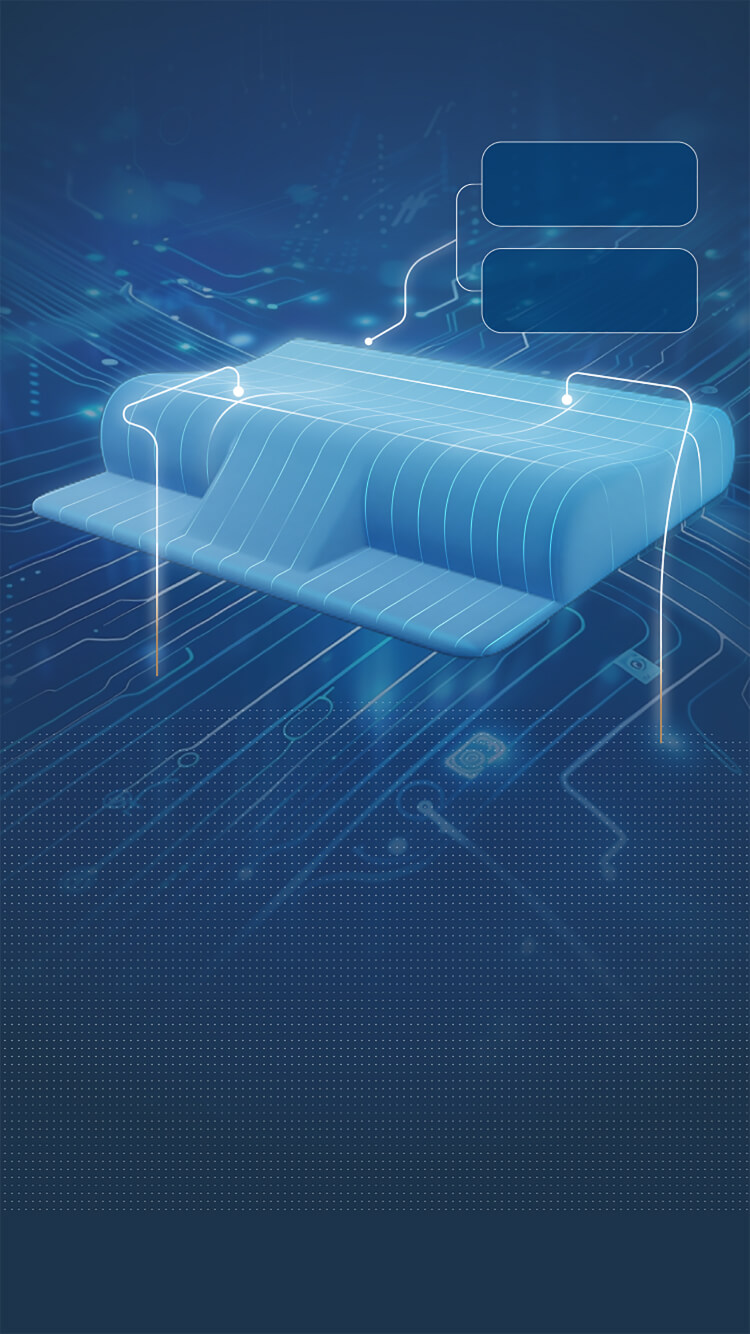
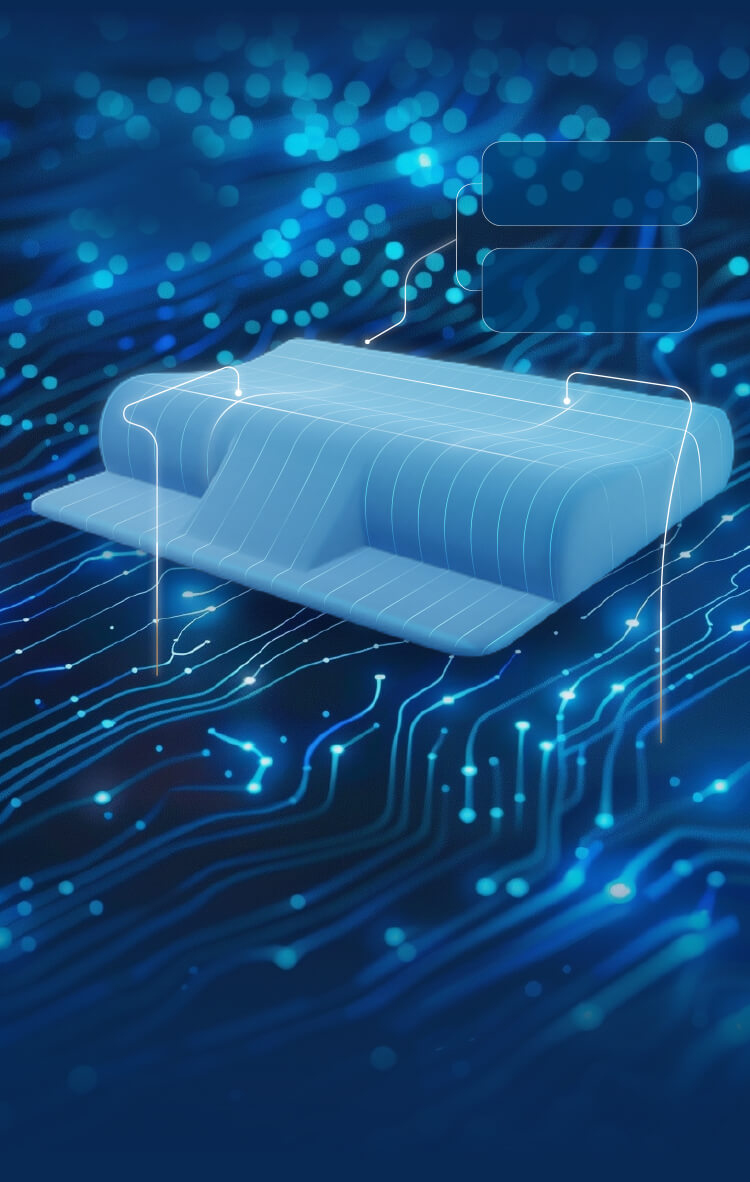
更新首页素材

diff --git a/pages/status/status.vue b/pages/status/status.vue
@@ -1,31 +1,31 @@
 <template>
 	<view class="main" v-if="hasLogin">
-		<view class="bg">
+		<view class="bg" :style="menuInfo">
 			<image mode="widthFix" class="backimg" src="../../static/index/SY_00A_001.jpg"></image>
-		</view>
-		<view class="logoleft">
-			<image mode="widthFix" src="../../static/index/SY_00A_LOGO01.png"></image>
-		</view>
-		<view class="rightBatteryInfo" :style="menuInfo">
-			<image class="icon" mode="widthFix" src="../../static/index/SY_00A_IconDLa.png"></image>
-			<label class="desc" for="">{{getPillowPower}}%</label>
-		</view>
-		<view class="rightInfo" :style="menuInfo">
-			<image class="icon" mode="widthFix" src="../../static/index/SY_00A_IconCW.png"></image>
-			<label class="desc" for="">{{login?'已连接':'未连接'}}</label>
-		</view>
-		<view class="headInfo" :style="menuInfo">
-			<view>颈枕高度</view>
-			<view>{{pillowSideHeight}}mm</view>
-		</view>
-		<view class="neckInfo" :style="menuInfo">
-			<view>头枕高度</view>
-			<view>{{pillowHeight}}mm</view>
-		</view>
-		<view class="">
-			<view v-for="(item,index) in deviceIdList" :key="index">
-				{{item.name}}
-				<button @click="connectSleepHandler(item)">{{item.deviceId == connectDeviceId ?'已连接':'连接'}}</button>
+			<view class="logoleft">
+				<image mode="widthFix" src="../../static/index/SY_00A_LOGO01.png"></image>
+			</view>
+			<view class="rightBatteryInfo" :style="menuInfo">
+				<image class="icon" mode="widthFix" src="../../static/index/SY_00A_IconDLa.png"></image>
+				<label class="desc" for="">{{getPillowPower}}%</label>
+			</view>
+			<view class="rightInfo" :style="menuInfo">
+				<image class="icon" mode="widthFix" src="../../static/index/SY_00A_IconCW.png"></image>
+				<label class="desc" for="">{{login?'已连接':'未连接'}}</label>
+			</view>
+			<view class="headInfo" :style="menuInfo">
+				<view>颈枕高度</view>
+				<view>{{pillowSideHeight}}mm</view>
+			</view>
+			<view class="neckInfo" :style="menuInfo">
+				<view>头枕高度</view>
+				<view>{{pillowHeight}}mm</view>
+			</view>
+			<view class="">
+				<view v-for="(item,index) in deviceIdList" :key="index">
+					{{item.name}}
+					<button @click="connectSleepHandler(item)">{{item.deviceId == connectDeviceId ?'已连接':'连接'}}</button>
+				</view>
 			</view>
 		</view>
 		<view class="">
@@ -104,6 +104,9 @@
 				return this.pillowPower > 100 ? 100 : this.pillowPower
 			}
 		},
+		watch: {
+
+		},
 		data() {
 			return {
 				menuInfo: {
@@ -145,17 +148,27 @@
 				});
 			}
 
+			uni.$on('update_pillow_info', this.updateInfo);
+			this.updateInfo()
+
 			let app = getApp();
 			this.$set(this.menuInfo, '--menuButtonTop', (app.globalData.top + 120) + 'px');
-			this.$set(this.menuInfo, '--menuButtonTop1', (app.globalData.top + 62) + 'px');
+			this.$set(this.menuInfo, '--menuButtonTop1', (app.globalData.top + 12) + 'px');
 			this.$set(this.menuInfo, '--menuHead', (app.globalData.top + 332) + 'px');
 			this.$set(this.menuInfo, '--menuNeck', (app.globalData.top + 362) + 'px');
 			console.log('menui:', (app.globalData.top + 120) + 'px', this.menuInfo)
 
+			// this.$set(this, 'pillowHeight', blue_class.getInstance().pillowHeight);
+			// this.$set(this, 'pillowSideHeight', blue_class.getInstance().pillowSideHeight);
+			// this.$set(this, 'pillowPower', blue_class.getInstance().pillowPower);
+			// console.log('menui11111:', this.pillowHeight)
+			// console.log('menui1111122:', this.pillowSideHeight)
+			// console.log('menui1111122333:', this.pillowPower)
+
 			this.loginStatus = blue_class.getInstance().loginSuccess;
-			this.pillowHeight = blue_class.getInstance().pillowHeight
-			this.pillowSideHeight = blue_class.getInstance().pillowSideHeight
-			this.pillowPower = blue_class.getInstance().getPillowPower()
+			// this.pillowHeight = blue_class.getInstance().pillowHeight
+			// this.pillowSideHeight = blue_class.getInstance().pillowSideHeight
+			// this.pillowPower = blue_class.getInstance().getPillowPower()
 			// console.log('createScopedThreejs:', createScopedThreejs)
 
 			// // 监听低功耗蓝牙设备的特征值变化事件.必须先启用 notifyBLECharacteristicValueChange 接口才能接收到设备推送的 notification。
@@ -224,6 +237,8 @@
 					}
 				})
 			}
+
+			uni.$off('update_pillow_info', this.updateInfo);
 		},
 		onLoad() {
 			// 监听设备发现
@@ -293,6 +308,15 @@
 		},
 
 		methods: {
+			updateInfo() {
+				this.$set(this, 'pillowHeight', blue_class.getInstance().pillowHeight);
+				this.$set(this, 'pillowSideHeight', blue_class.getInstance().pillowSideHeight);
+				this.$set(this, 'pillowPower', blue_class.getInstance().pillowPower);
+
+				console.log('menui11111:', this.pillowHeight)
+				console.log('menui1111122:', this.pillowSideHeight)
+				console.log('menui1111122333:', this.pillowPower)
+			},
 			aiHandler() {
 				uni.navigateTo({
 					url: "/page_subject/measure/measure"
@@ -810,6 +834,7 @@
 	.main {
 		width: 100%;
 		height: 100%;
+		background-color: #0b2853;
 
 		.logoleft {
 			position: absolute;
@@ -825,10 +850,10 @@
 	}
 
 	.bg {
-		position: absolute;
-		background-color: #1c344c;
+		position: relative;
+		background-color: #0b2853;
 		left: 0;
-		top: 0;
+		top: var(--menuButtonTop1);
 		right: 0;
 		bottom: 0;
 
@@ -952,7 +977,7 @@
 		// padding-top: 200rpx;
 		justify-content: space-around;
 		position: absolute;
-		bottom: 180rpx;
+		bottom: 200rpx;
 		left: 0rpx;
 		right: 0rpx;
 

diff --git a/page_subject/work/work.vue b/page_subject/work/work.vue
@@ -567,11 +567,14 @@
 				// blue_class.getInstance().write2tooth(arraybuffer)
 				// return;
 				this.closePopUpHandle()
-				var url_ = '/pages/status/status';
-				console.log('url:', url_)
-				uni.navigateTo({
-					url: url_
+				uni.switchTab({
+					url: "/pages/status/status"
 				})
+				// var url_ = '/pages/status/status';
+				// console.log('url:', url_)
+				// uni.navigateTo({
+				// 	url: url_
+				// })
 			},
 			// 调低枕头
 			adjustLowSleepHandler() {

diff --git a/utils/BlueManager.js b/utils/BlueManager.js
@@ -44,6 +44,7 @@ class blue_class {
 	}
 	setPillowPower(value) {
 		this.pillowPower = value;
+		uni.$emit('update_pillow_info')
 	}
 
 	getPillowPower() {
